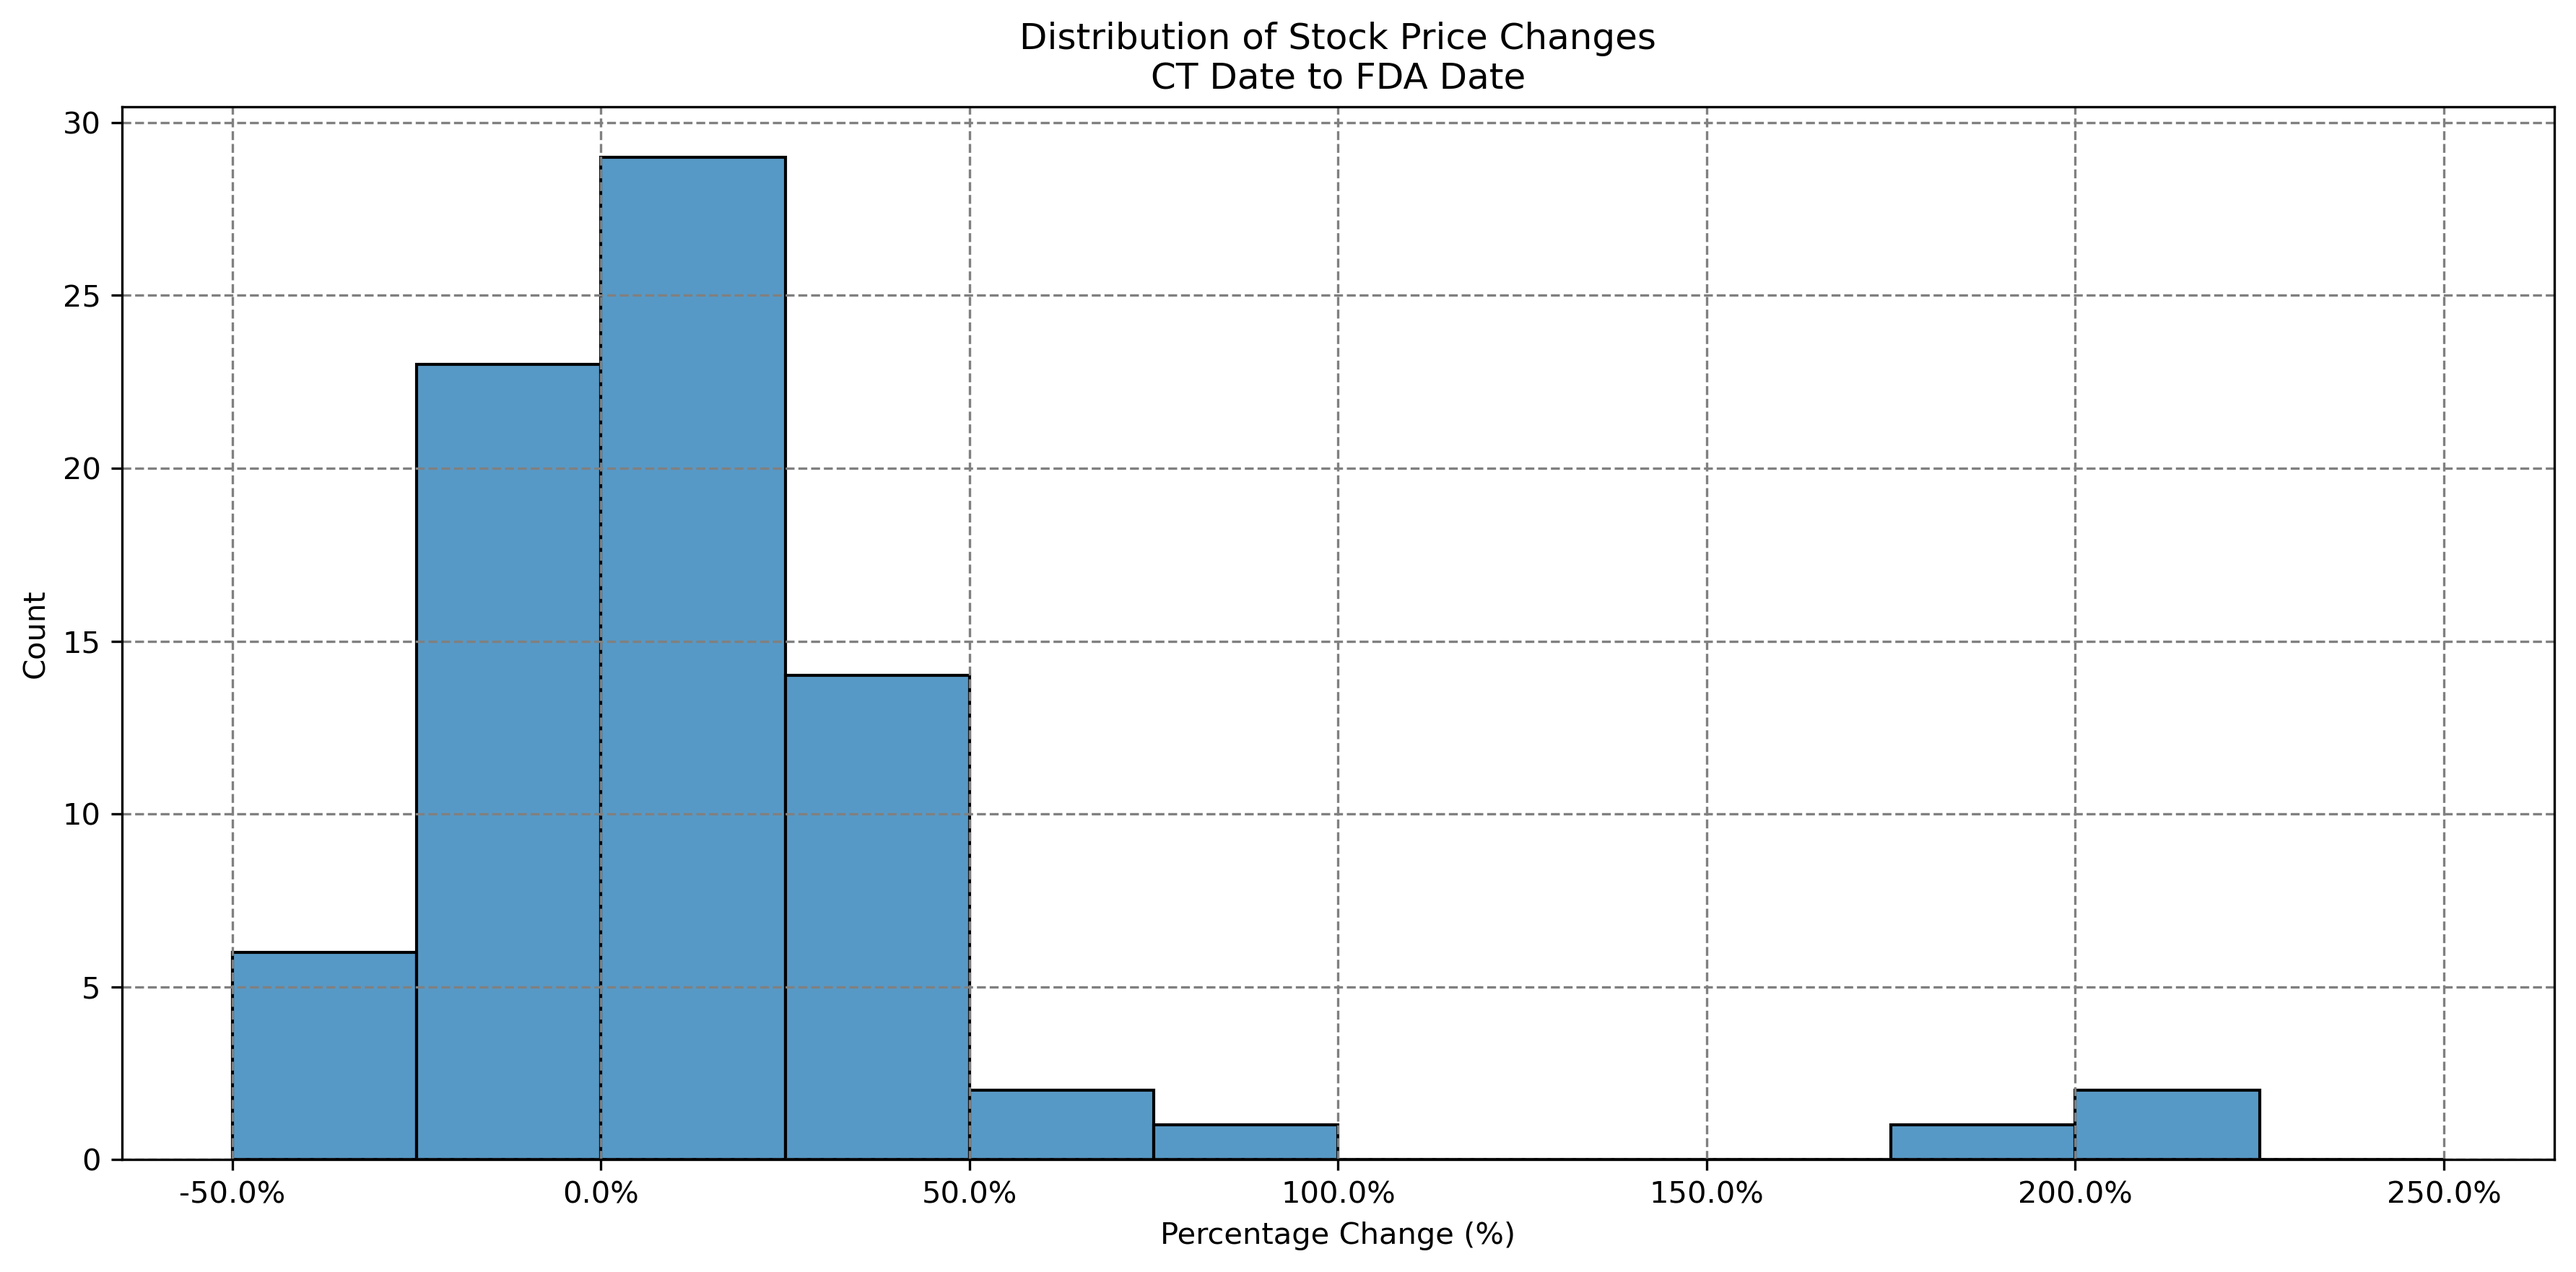
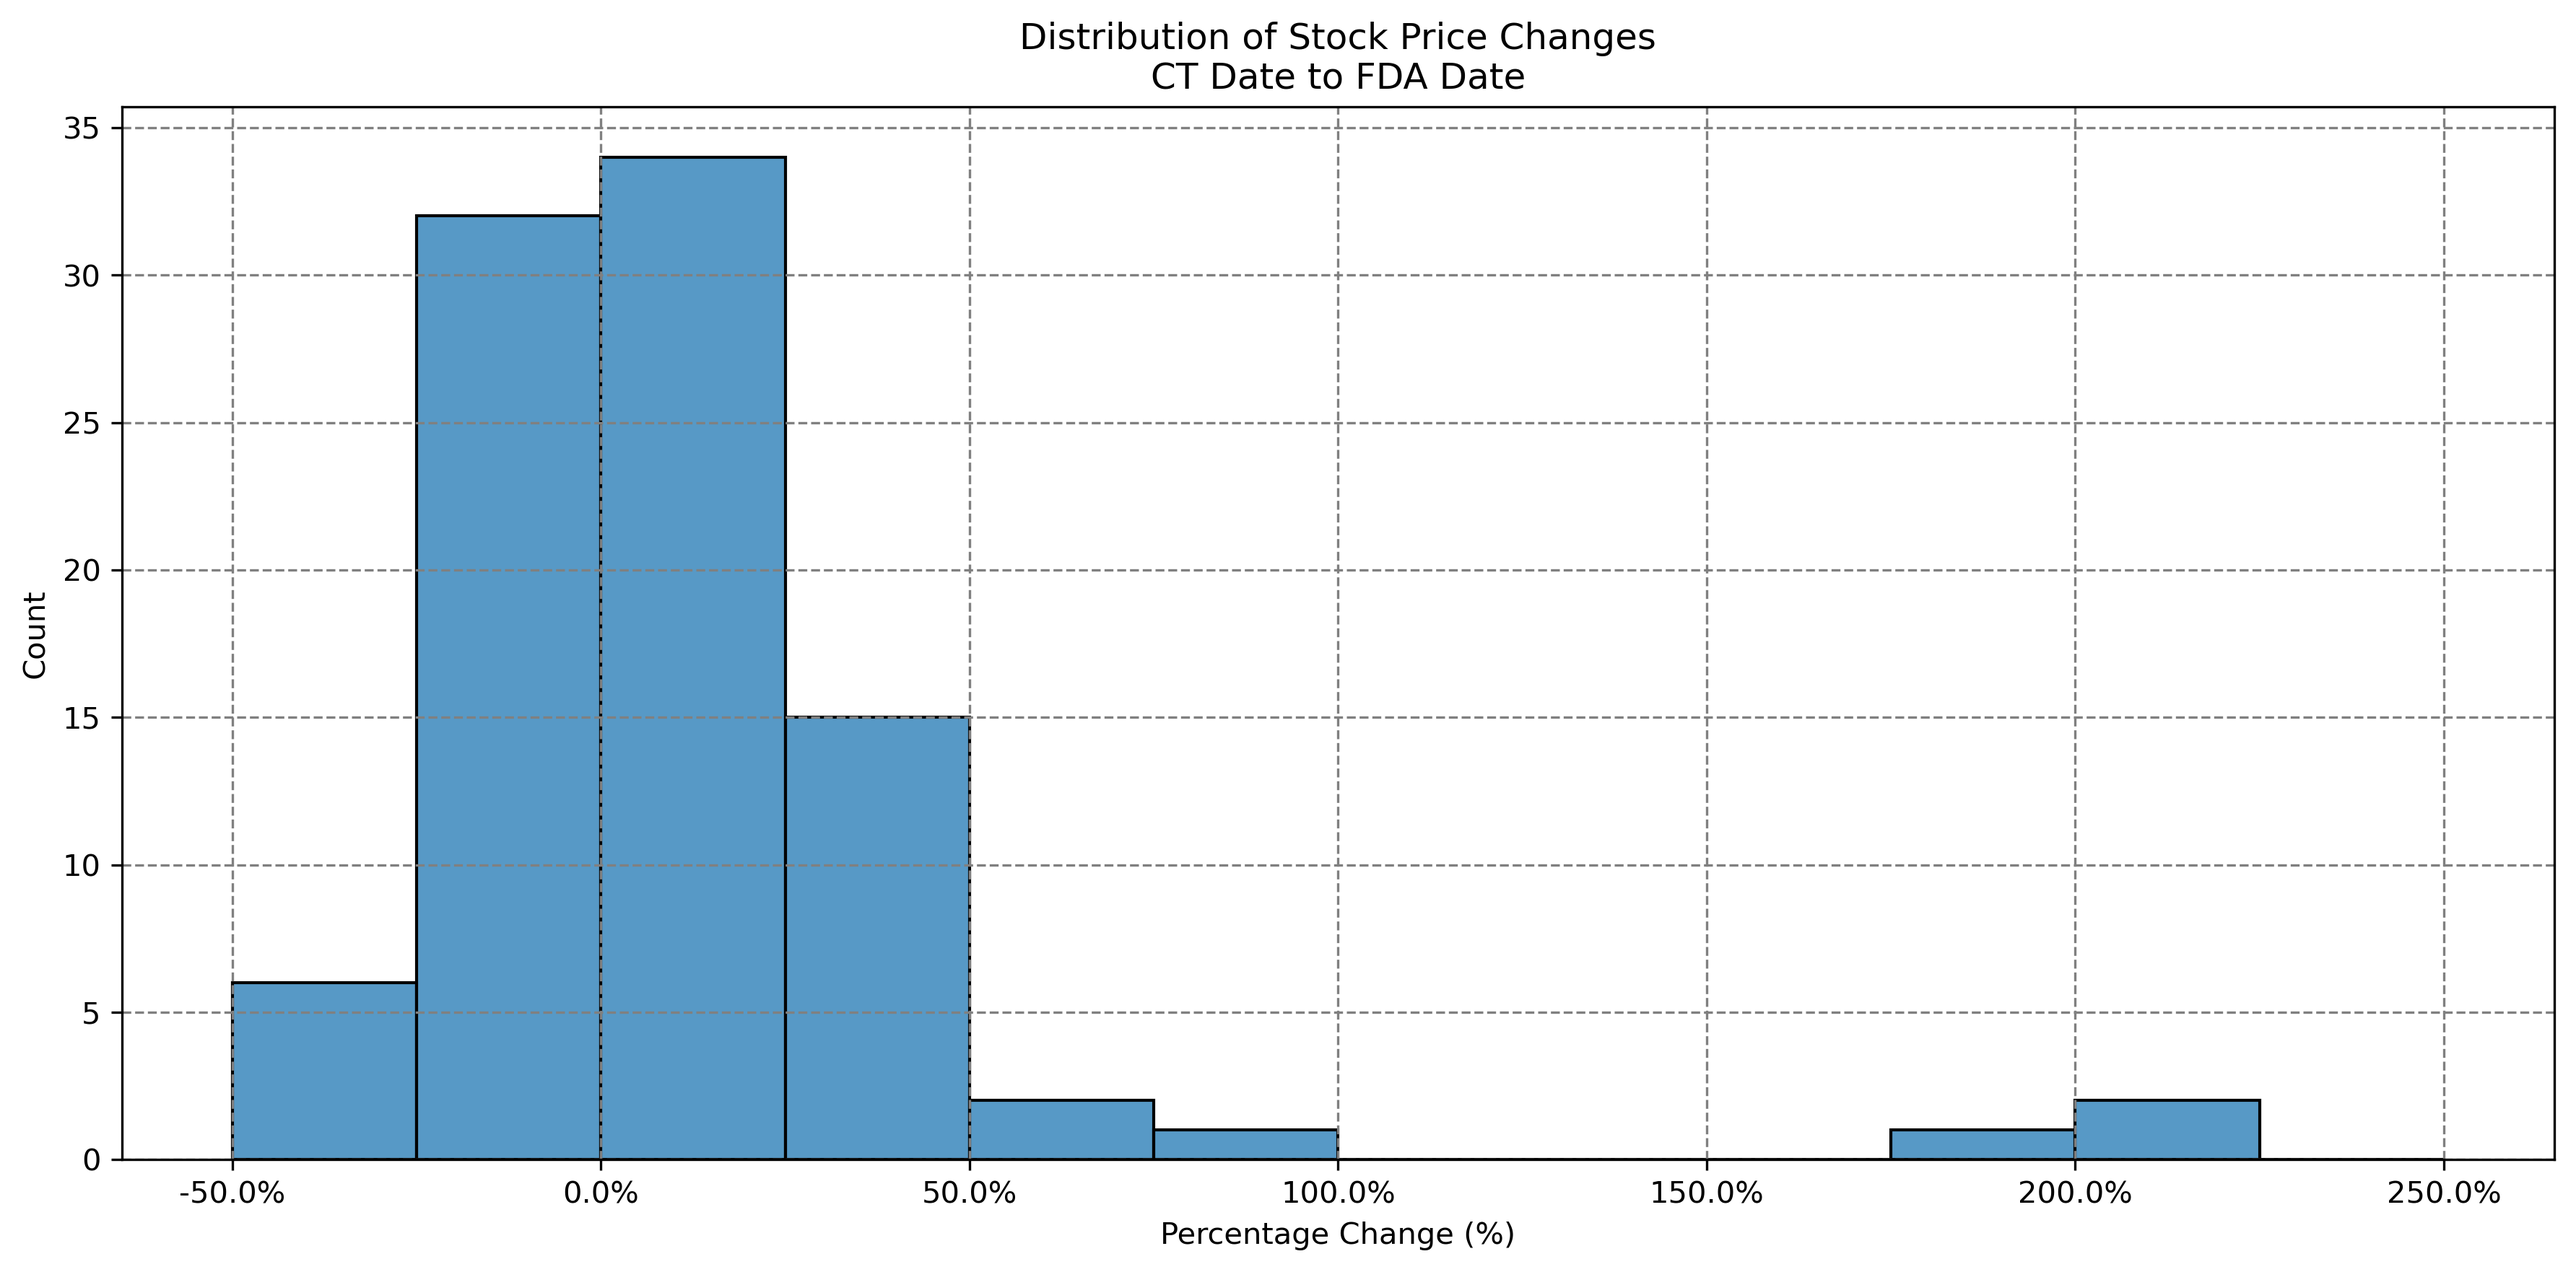
final edits

diff --git a/data_ingest/extract_load_stocks.py b/data_ingest/extract_load_stocks.py
@@ -118,7 +118,7 @@ def process_companies(companies: List[str]) -> Dict[str, Optional[str]]:
 
 def expand_stocks():
     unique_sponsors = pd.read_csv("./data_cleaning/processed_data/sponsor_data.csv")
-    unique_sponsors = unique_sponsors[unique_sponsors["sponsor_num_trials"] >= 30]
+    unique_sponsors = unique_sponsors[unique_sponsors["sponsor_num_trials"] >= 25]
     unique_sponsors = unique_sponsors["company_ct"].unique().tolist()
 
     results = process_companies(unique_sponsors)
@@ -194,7 +194,7 @@ def main():
             result_dfs.append(temp[["date_stock", "company_ct", "ticker", "closing_price"]])
 
     final_df = pd.concat(result_dfs, ignore_index=True)
-    final_df.to_csv("./data_ingest/raw_data/merged_stock_data_updated.csv", index=False)
+    final_df.to_csv("./data_ingest/raw_data/merged_stock_data.csv", index=False)
 
 if __name__ == "__main__":
     main()
